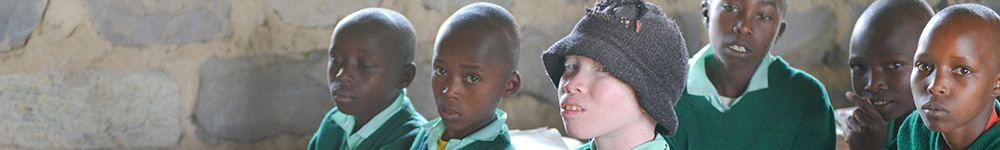
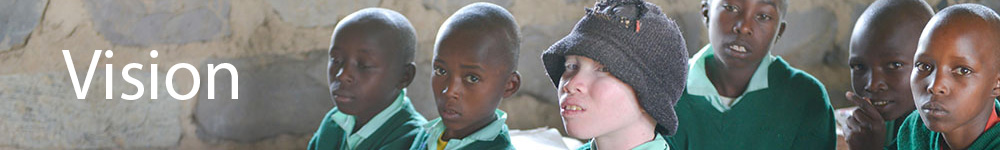
texts added

Changed region(s): [[0.062, 0.32, 0.248, 0.6667]]

diff --git a/tema1.html b/tema1.html
@@ -105,9 +105,9 @@
 </head>
 <body>
 <div id="main">
-    <div class="margin">
 
-        <h1>Vision</h1><img class="img" src="http://interaktivideo.github.io/images/om1000150.jpg" alt="" style="width:98%;">
+
+        <img class="img" src="http://interaktivideo.github.io/images/om1000150.jpg" alt="" style="width:98%;">
         <br>
         <div id="mySidenav" class="sidenav">
             <a href="javascript:void(0)" class="closebtn" onclick="closeNav()">×</a>
